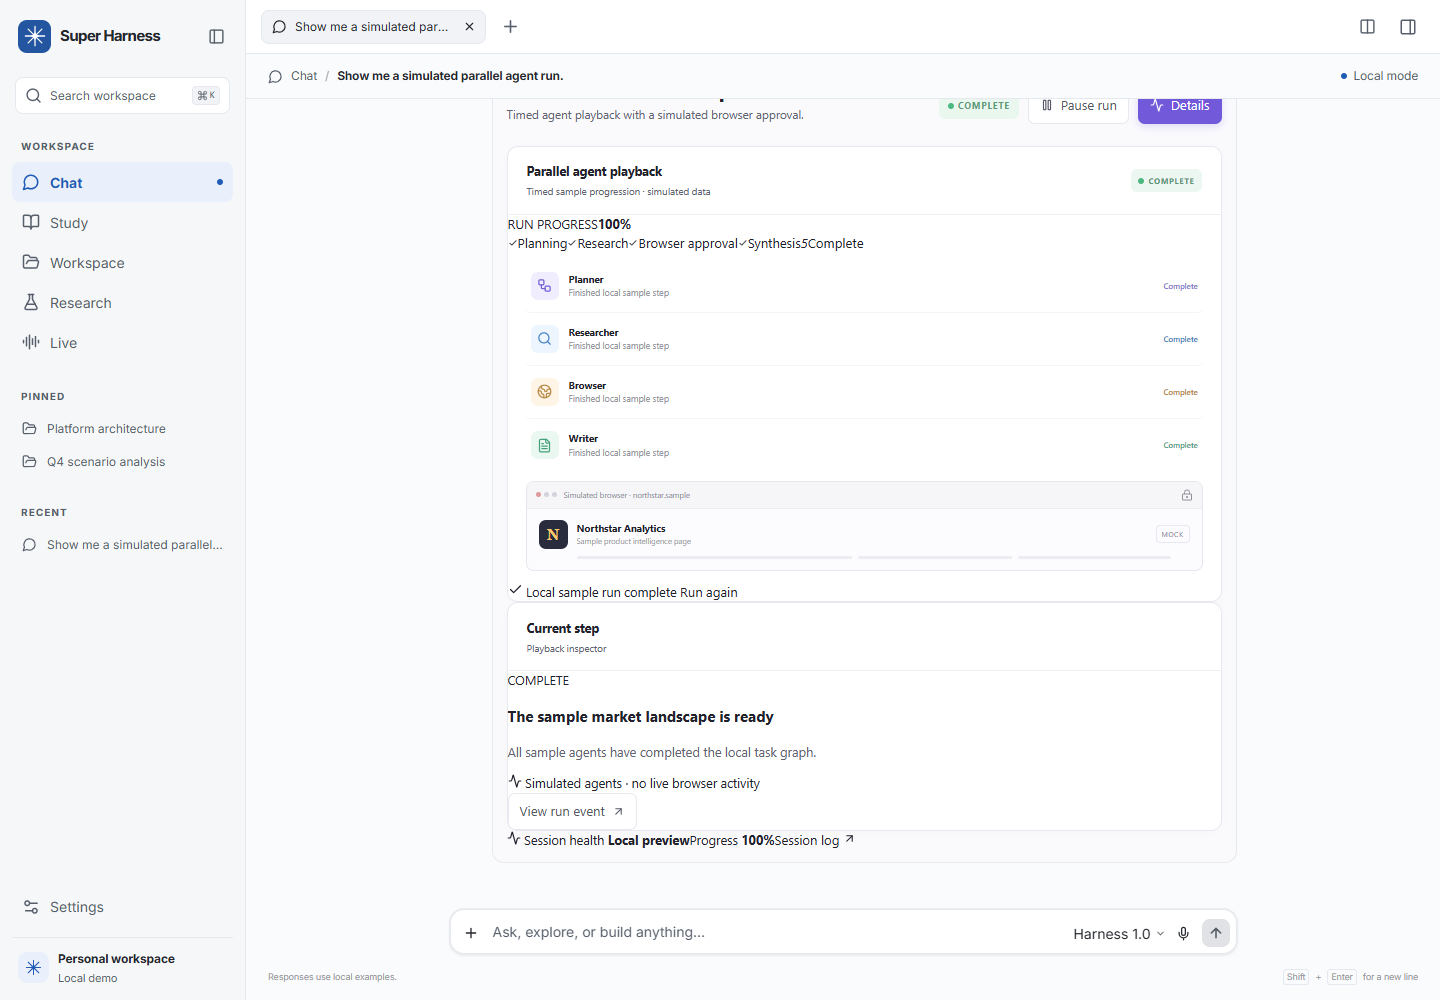
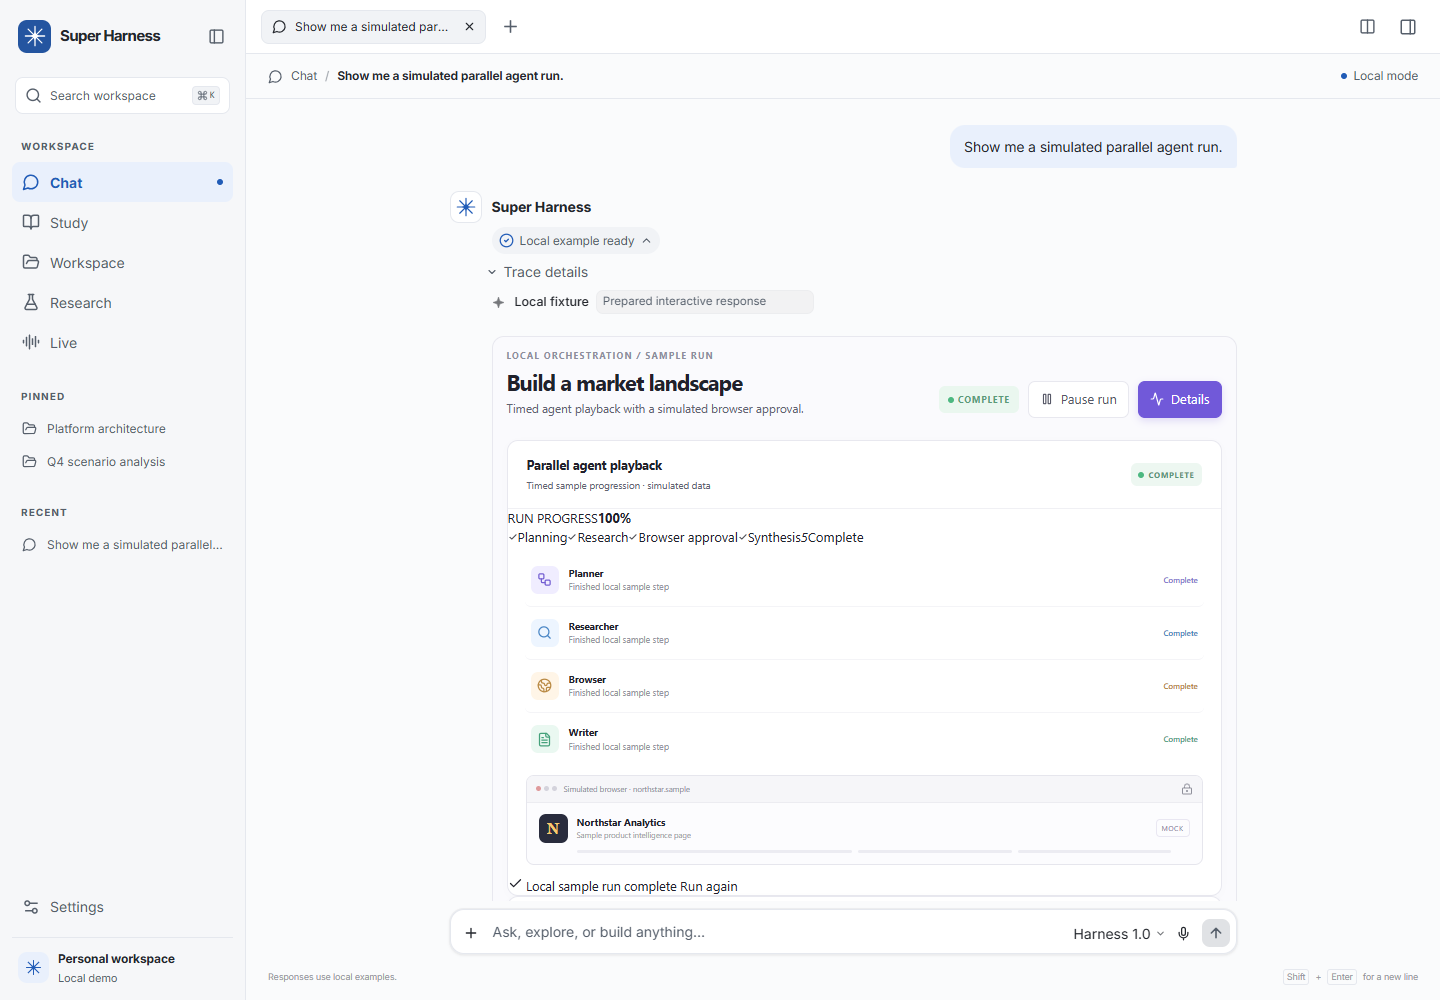
Keep the local activity trace free of inactive controls

diff --git a/src/Scene.tsx b/src/Scene.tsx
@@ -46,7 +46,7 @@ function Mixed({sessionId,instanceId,onInspect}:SceneProps) {
       <UpstreamCode filename="queries/error-rate.promql" lines={['sum(rate(http_requests_total{status=~"5.."}[5m]))', '/ sum(rate(http_requests_total[5m]))']}/>
       <UpstreamContext labels={{header:'Measurement context',count:'1'}} chunks={[{title:'Request counters',chars:'Local fixture',body:'Compare the 5xx counter with all requests over the same window.',source:'Service telemetry fixture',badge:'Example',tone:'green'}]}/>
       <UpstreamTasks rows={taskRows.map(row=>({...row,details:[...row.details]}))}/>
-      <UpstreamTools labels={{header:'Local activity',more:'More details'}} steps={[{icon:'read',label:'Read comparison inputs',chip:'Service measurement',mono:false,detailMono:false,detail:[{text:'Loaded the bundled request-counter fixture.'}]}]} diffs={[]} diffLines={{}}/>
+      <UpstreamTools labels={{header:'Local activity'}} steps={[{icon:'read',label:'Read comparison inputs',chip:'Service measurement',mono:false,detailMono:false,detail:[{text:'Loaded the bundled request-counter fixture.'}]}]} diffs={[]} diffLines={{}}/>
       <section aria-label="Draft approval">
         {decision?<p role="status">{decision} <button type="button" className="reset-button" onClick={()=>choose('')}>Review again</button></p>:<UpstreamReview questions={reviewQuestions.map(question=>({...question,options:[...question.options]}))} labels={{sentMessage:'Local decision recorded',send:'Record decision'}} onSubmitted={answers=>choose(answers[0]?.includes(0)?'Approved in this demo':answers[0]?.includes(1)?'Changes requested':'No decision recorded')}/>}
       </section>

diff --git a/src/upstream/ToolChips.tsx b/src/upstream/ToolChips.tsx
@@ -36,12 +36,10 @@ export type ToolDiffLine = { text: string; tone: "add" | "del" | "ctx" };
 
 export type ToolChipsLabels = {
   header: string;
-  more: string;
 };
 
 const DEFAULT_LABELS: ToolChipsLabels = {
   header: "4 tool calls, 2 messages",
-  more: "+2 more",
 };
 
 const ROWS: ToolStep[] = [
@@ -250,7 +248,7 @@ export default function ToolChips({
         </div>
 
       {/* file-diff chips */}
-      {step >= total && (
+      {step >= total && diffs.length > 0 && (
         <div className="mt-2.5 flex max-w-full flex-wrap gap-1.5 border-t border-line pt-2.5">
           {diffs.map((d, i) => (
             <span
@@ -278,15 +276,6 @@ export default function ToolChips({
 
             </span>
           ))}
-          <button
-            type="button"
-            className="inline-flex h-7 items-center rounded-chip px-1.5 font-mono text-[11.5px] text-ink-3
-              underline decoration-transparent underline-offset-2 transition-colors duration-100
-              hover:text-ink-2 hover:decoration-current"
-            style={{ animation: `fade-in 300ms ease-out ${diffs.length * 80}ms both` }}
-          >
-            {copy.more}
-          </button>
         </div>
       )}
         </div>

diff --git a/tests/session-shell.spec.ts b/tests/session-shell.spec.ts
@@ -19,6 +19,7 @@ test('keeps drafts and responses separate across split sessions and reloads', as
   await expect(primary.getByText(/1 \/ 4 symbols/)).toBeVisible();
   await primary.getByRole('button', { name:'Trace', exact:true }).click();
   await expect(primary.getByText('· accepted', {exact:true})).toBeVisible();
+  await expect(primary.getByRole('button', {name:'+2 more',exact:true})).toHaveCount(0);
   await page.screenshot({ path: testInfo.outputPath('active-chat.png') });
   await message.fill('Primary draft');
 

diff --git a/src/beautiful/Gallery.tsx b/src/beautiful/Gallery.tsx
@@ -13,4 +13,3 @@ export default function Gallery() {
     <Grid sources={sources} />
   </main>;
 }
-

diff --git a/src/beautiful/components/primitives/SidebarNav.tsx b/src/beautiful/components/primitives/SidebarNav.tsx
@@ -436,4 +436,3 @@ export default function SidebarNav({
     </aside>
   );
 }
-
